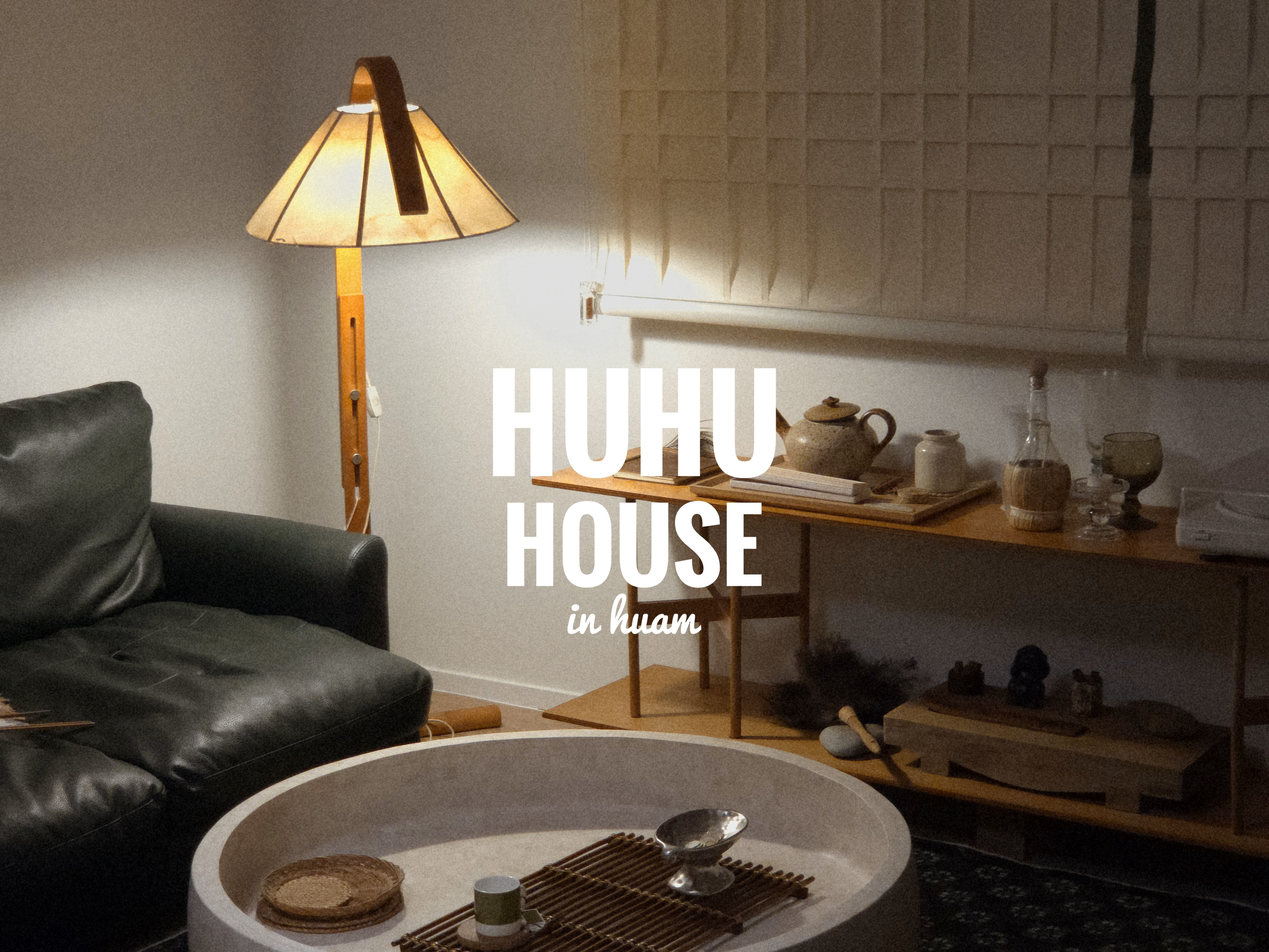
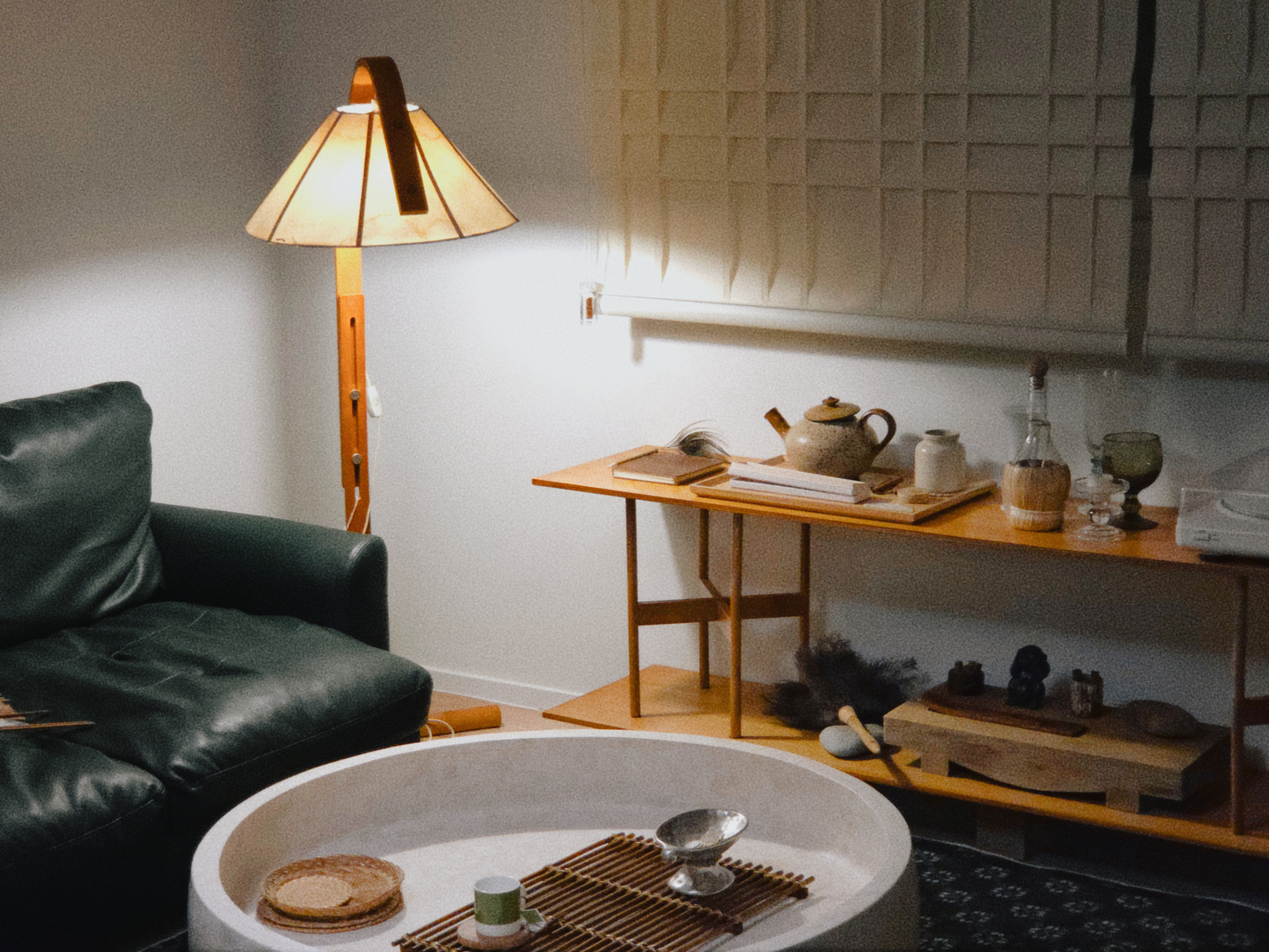
Update Wi-Fi details and waste guide

diff --git a/index.html b/index.html
@@ -282,6 +282,34 @@
         font-weight: 800;
       }
 
+      .wifi-details {
+        display: grid;
+        gap: 3px;
+        margin-top: 4px;
+      }
+
+      .wifi-details div {
+        display: flex;
+        align-items: baseline;
+        gap: 8px;
+        min-width: 0;
+      }
+
+      .wifi-details span {
+        flex: 0 0 auto;
+        color: var(--muted);
+        font-size: 12px;
+        font-weight: 700;
+      }
+
+      .wifi-details strong {
+        min-width: 0;
+        font-size: 16px;
+        line-height: 21px;
+        font-weight: 800;
+        overflow-wrap: anywhere;
+      }
+
       .copy-button {
         display: grid;
         place-items: center;
@@ -863,10 +891,13 @@
             <article class="info-card">
               <div class="info-icon"><span class="icon">wifi</span></div>
               <div class="info-body">
-                <div class="label">Wi-Fi 비밀번호</div>
-                <div class="value" id="wifi-password">HUHU_Guest_2026!</div>
+                <div class="label">Wi-Fi</div>
+                <div class="wifi-details">
+                  <div><span>이름</span><strong>U+NetEFC5</strong></div>
+                  <div><span>비밀번호</span><strong id="wifi-password">7C25259EM*</strong></div>
+                </div>
               </div>
-              <button class="copy-button" type="button" aria-label="Wi-Fi 비밀번호 복사" data-copy="HUHU_Guest_2026!">
+              <button class="copy-button" type="button" aria-label="Wi-Fi 비밀번호 복사" data-copy="7C25259EM*">
                 <span class="icon">content_copy</span>
               </button>
             </article>
@@ -902,10 +933,10 @@
                 <strong>주변 맛집</strong>
                 <span>호스트가 고른 동네 스팟</span>
               </button>
-              <button class="guide-card" type="button" data-nav="faq" data-filter="emergency">
-                <span class="icon">contact_support</span>
-                <strong>호스트 연락</strong>
-                <span>긴급 상황 및 문의</span>
+              <button class="guide-card" type="button" data-nav="faq" data-filter="waste">
+                <span class="icon">delete</span>
+                <strong>쓰레기 분리 배출</strong>
+                <span>일반 쓰레기와 재활용 안내</span>
               </button>
             </div>
           </section>
@@ -959,7 +990,7 @@
         <section class="view" id="faq-view" aria-label="FAQ">
           <div class="page-intro">
             <h1>자주 묻는 질문</h1>
-            <p>체크인, 가전제품, 긴급상황을 검색하거나 카테고리로 골라보세요.</p>
+            <p>체크인, 가전제품, 쓰레기 배출 안내를 검색하거나 카테고리로 골라보세요.</p>
           </div>
           <label class="search-box">
             <span class="icon">search</span>
@@ -970,6 +1001,7 @@
             <button class="chip" type="button" data-faq-filter="check">체크인/아웃</button>
             <button class="chip" type="button" data-faq-filter="device">가전제품</button>
             <button class="chip" type="button" data-faq-filter="house">숙소 규칙</button>
+            <button class="chip" type="button" data-faq-filter="waste">쓰레기 배출</button>
             <button class="chip" type="button" data-faq-filter="emergency">긴급상황</button>
           </nav>
           <div class="faq-list" id="faq-list">
@@ -1014,6 +1046,17 @@
               <div class="faq-answer">
                 <div>
                   <p>실내와 베란다 모두 금연입니다. 흡연 흔적이 남을 경우 특수 청소 비용이 청구될 수 있습니다.</p>
+                </div>
+              </div>
+            </article>
+            <article class="faq-card" data-category="waste">
+              <button class="faq-question" type="button">
+                <span>쓰레기는 어떻게 분리 배출하나요?</span>
+                <span class="icon">expand_more</span>
+              </button>
+              <div class="faq-answer">
+                <div>
+                  <p>일반 쓰레기는 현관 밖 회색 통에 넣어주세요. 재활용품은 종이, 플라스틱, 캔, 유리로 나누어 흰색 바구니에 모아두시면 됩니다. 음식물 쓰레기는 물기를 제거한 뒤 음식물 전용 봉투에 담아주세요.</p>
                 </div>
               </div>
             </article>
